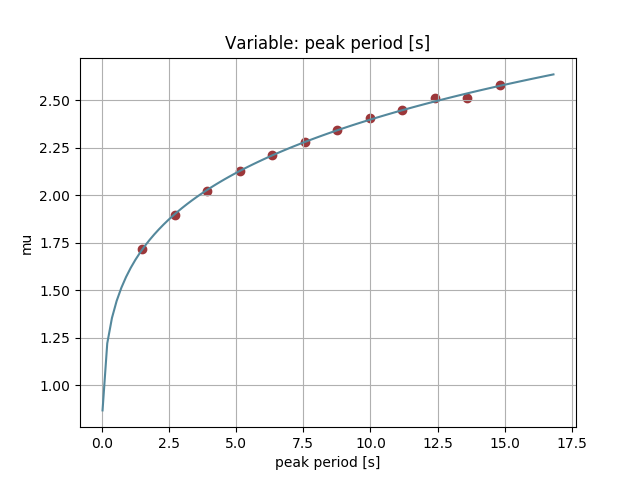
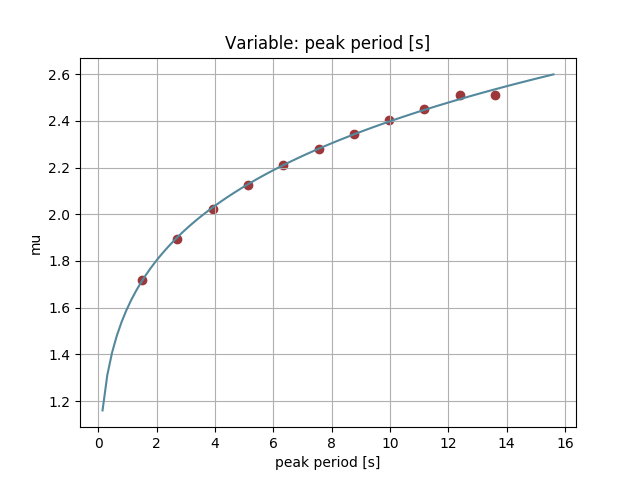
introduce a minimum number of data points to perform a fit, this solved issue #16

diff --git a/enviro/compute/fitting.py b/enviro/compute/fitting.py
@@ -333,6 +333,7 @@ class Fit():
             order : (shape, loc, scale) (i.e. 0 -> shape)
 
         """
+        MIN_DATA_POINTS_FOR_FIT = 10
 
         # compute steps
         steps, step_size = np.linspace(min(samples[dependency[index]]), max(samples[dependency[index]]),
@@ -349,16 +350,25 @@ class Fit():
         for i, step in enumerate(steps):
             mask = ((sorted_samples[:, 1] >= step - 0.5 * step_size) & (sorted_samples[:, 1] < step + 0.5 * step_size))
             fitting_values = sorted_samples[mask, 0]
-            try:
-                # fit distribution to selected data
-                Fit._append_params(name, param_values, dependency, index, fitting_values)
-                dist_values.append(fitting_values)
-            except ValueError:
-                # for case that no fitting data for the step has been found -> step is deleted
-                steps = np.delete(i, steps)
+            if len(fitting_values) >= MIN_DATA_POINTS_FOR_FIT:
+                try:
+                    # fit distribution to selected data
+                    Fit._append_params(name, param_values, dependency, index, fitting_values)
+                    dist_values.append(fitting_values)
+                except ValueError:
+                    # for case that no fitting data for the step has been found -> step is deleted
+                    steps = np.delete(steps,i)
+                    warnings.warn(
+                        "There is not enough data for step '{}' in dimension '{}'. This step is skipped. "
+                        "Maybe you should ckeck your data or reduce the number of steps".format(step, dependency[index]),
+                        RuntimeWarning, stacklevel=2)
+            else:
+                # for case that to few fitting data for the step has been found -> step is deleted
+                steps = np.delete(steps,i)
                 warnings.warn(
-                    "There is not enough data for step '{}' in dimension '{}'. This step is skipped. "
-                    "Maybe you should ckeck your data or reduce the number of steps".format(step, dependency[index]),
+                    "'Due to the restriction of MIN_DATA_POINTS_FOR_FIT='{}' there is not enough data (n='{}') for step '{}' in"
+                    " dimension '{}'. This step is skipped. Maybe you should ckeck your data or reduce the number "
+                    "of steps".format(MIN_DATA_POINTS_FOR_FIT, len(fitting_values), step, dependency[index]),
                     RuntimeWarning, stacklevel=2)
         return steps, dist_values, param_values
 

diff --git a/enviro/plot.py b/enviro/plot.py
@@ -183,6 +183,8 @@ def plot_fits(fit, var_names, var_symbols, title, user, measure_file):
             else:
                 raise KeyError('{} is not a matching index of a parameter like shape location and scale'.format(
                     distribution.param))
+            print('spec param points:')
+            print(spec_param_points)
             if spec_param_points is not None:
                 for k, point in enumerate(spec_param_points[1]):
                     float_points.append(point)
